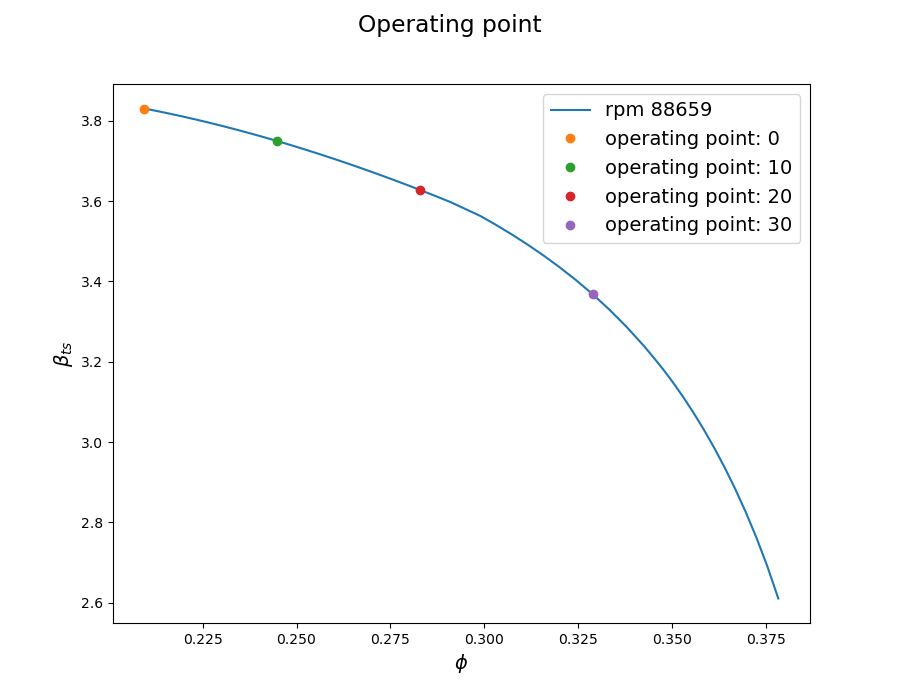
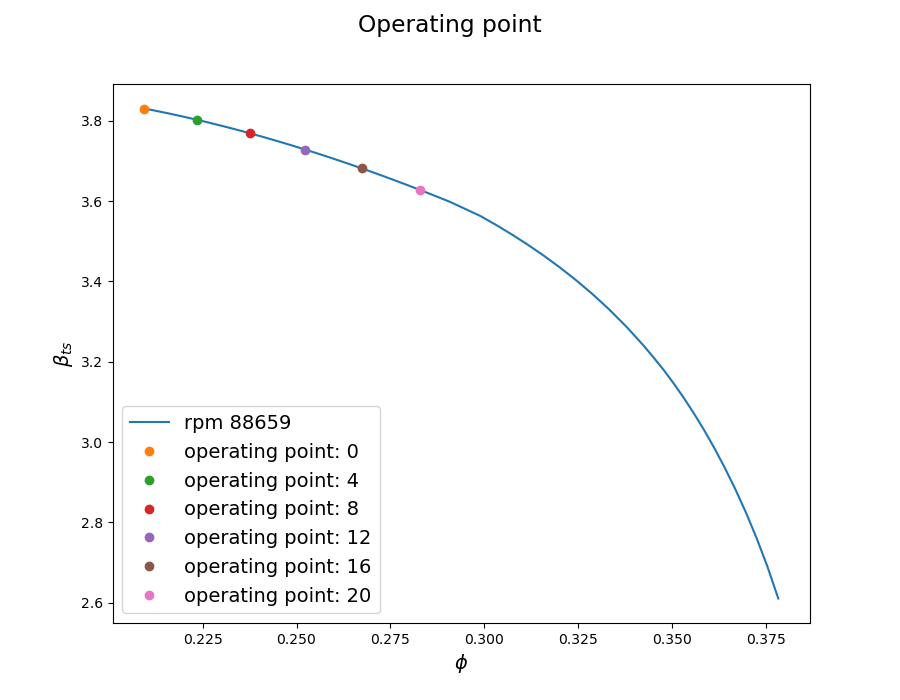
update

diff --git a/Spakozvski_model_II/compressor_andrea_main.py b/Spakozvski_model_II/compressor_andrea_main.py
@@ -253,7 +253,7 @@ alpha4 = Alpha4[speedline,0:index_max]
 
 wpoint = index_max//4
 wpoint = 15 #working point selected
-working_points = [0, 10, 20, 30]
+working_points = [0,2,4,6,8,10,12,14,16,18,20,22,24,26,28,30]
 fig, ax = plt.subplots(1, figsize=format_fig)
 ax.plot(phi,beta_ts[speedline,0:index_max], label='rpm '+str(int(rpm[speedline])))
 
@@ -273,14 +273,14 @@ for wpoint in working_points:
         return np.linalg.det(Y)
     
     
-    domain = [-3,3,-10,10]
+    domain = [-3,1.5,-10,10]
     grid = [1,1]
     n=np.arange(1,5)
     poles = {}
     plt.figure(figsize=format_fig)
     for nn in n:
-        print('Harmonic Number: ', nn)
-        poles[nn] = Shot_Gun(centrifugal_vaneless, domain, grid, n=nn, attempts=40, N=40)
+        print('Harmonic Number: ' + str(nn) + ' of ' + str(n[-1]))
+        poles[nn] = Shot_Gun(centrifugal_vaneless, domain, grid, n=nn, attempts=50, N=30)
         plt.plot(poles[nn].real,-poles[nn].imag, 'o',label='n '+str(nn))
     real_axis_x = np.linspace(domain[0],domain[1],100)
     real_axis_y = np.zeros(len(real_axis_x))   

diff --git a/Spakozvski_model_II/gif.py b/Spakozvski_model_II/gif.py
@@ -1,0 +1,27 @@
+#!/usr/bin/env python3
+# -*- coding: utf-8 -*-
+"""
+Created on Fri Mar  3 12:35:54 2023
+
+@author: fneri
+routine to make a gif
+"""
+
+from PIL import Image
+import os
+
+# set the path for the images
+path = "pics/gif_pic/"
+
+# get all image filenames in the directory
+files = os.listdir(path)
+
+# sort the files to ensure proper ordering
+files.sort()
+
+# create a list of image objects from the filenames
+images = [Image.open(os.path.join(path, f)) for f in files]
+
+# create a GIF file from the image objects
+images[0].save('pics/poles_evolution.gif', save_all=True, append_images=images[1:], duration=700, loop=0)
+
